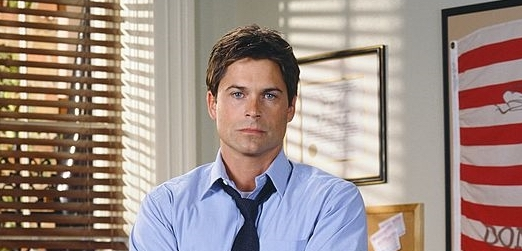
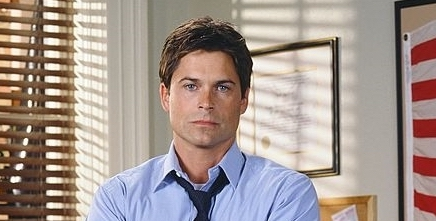
shade backgroung imgs

diff --git a/styles.css b/styles.css
@@ -161,65 +161,67 @@ li {
 }
 
 #flotus {
-  background-image: url(assets/img/flotus.jpg);
+  background-image: linear-gradient(rgba(0, 0, 0, 0.5), rgba(0, 0, 0, 0.5)), url(assets/img/flotus.jpg);
   background-repeat: no-repeat;
   background-size: cover;
 }
+
 #amy {
-  background-image: url(assets/img/amy.jpg);
+  background-image: linear-gradient(rgba(0, 0, 0, 0.4), rgba(0, 0, 0, 0.4)), url(assets/img/amy.jpg);
   background-repeat: no-repeat;
   background-size: cover;
 }
+
 #charlie {
-  background-image: url(assets/img/charlie.jpg);
+  background-image: linear-gradient(rgba(0, 0, 0, 0.5), rgba(0, 0, 0, 0.5)), url(assets/img/charlie.jpg);
   background-repeat: no-repeat;
   background-size: cover;
 }
 
 #cj {
-  background-image: url(assets/img/cj.jpg);
+  background-image: linear-gradient(rgba(0, 0, 0, 0.5), rgba(0, 0, 0, 0.5)), url(assets/img/cj.jpg);
   background-repeat: no-repeat;
   background-size: cover;
 }
 
 #donna {
-  background-image: url(assets/img/donna.jpg);
+  background-image: linear-gradient(rgba(0, 0, 0, 0.5), rgba(0, 0, 0, 0.5)), url(assets/img/donna.jpg);
   background-repeat: no-repeat;
   background-size: cover;
 }
 /*find a better pic*/
 #flotus {
-  background-image: url(assets/img/flotus.jpg);
+  background-image: linear-gradient(rgba(0, 0, 0, 0.5), rgba(0, 0, 0, 0.5)), url(assets/img/flotus.jpg);
   background-repeat: no-repeat;
   background-size: cover;
 }
 
 #josh {
-  background-image: url(assets/img/josh.jpg);
+  background-image: linear-gradient(rgba(0, 0, 0, 0.4), rgba(0, 0, 0, 0.4)), url(assets/img/josh.jpg);
   background-repeat: no-repeat;
   background-size: cover;
 }
 
 #leo {
-  background-image: url(assets/img/leo.jpg);
+  background-image: linear-gradient(rgba(0, 0, 0, 0.5), rgba(0, 0, 0, 0.5)), url(assets/img/leo.jpg);
   background-repeat: no-repeat;
   background-size: cover;
 }
 
 #potus {
-  background-image: url(assets/img/potus.jpg);
+  background-image: linear-gradient(rgba(0, 0, 0, 0.5), rgba(0, 0, 0, 0.5)), url(assets/img/potus.jpg);
   background-repeat: no-repeat;
   background-size: cover;
 }
 
 #sam {
-  background-image: url(assets/img/sam.jpg);
+  background-image: linear-gradient(rgba(0, 0, 0, 0.5), rgba(0, 0, 0, 0.5)), url(assets/img/sam.jpg);
   background-repeat: no-repeat;
   background-size: cover;
 }
 
 #toby {
-  background-image: url(assets/img/toby.jpg);
+  background-image: linear-gradient(rgba(0, 0, 0, 0.5), rgba(0, 0, 0, 0.5)), url(assets/img/toby.jpg);
   background-repeat: no-repeat;
   background-size: cover;
 }
